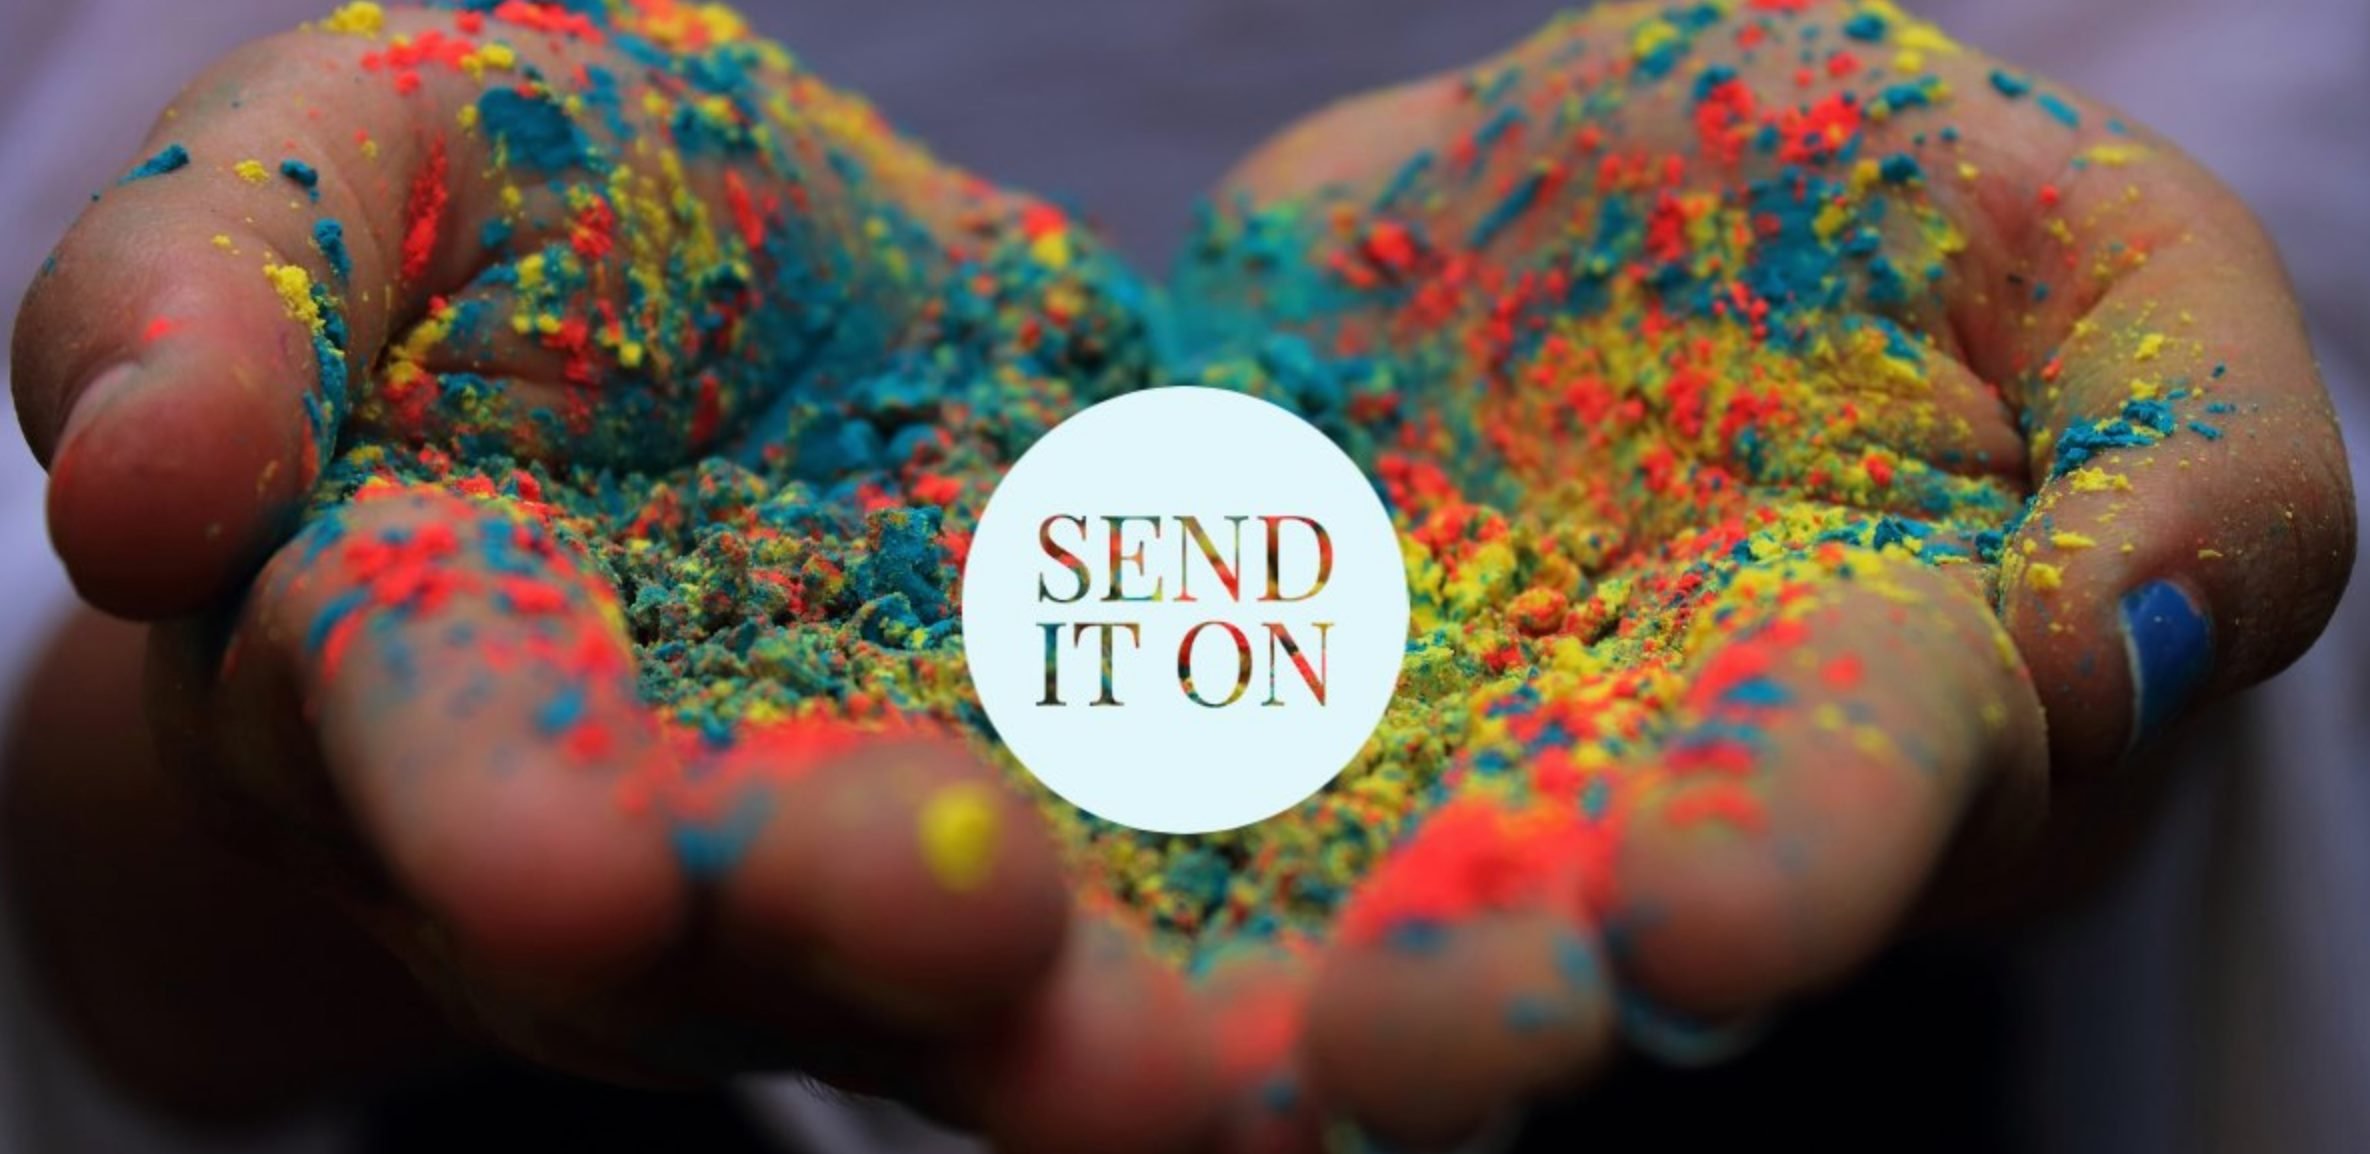
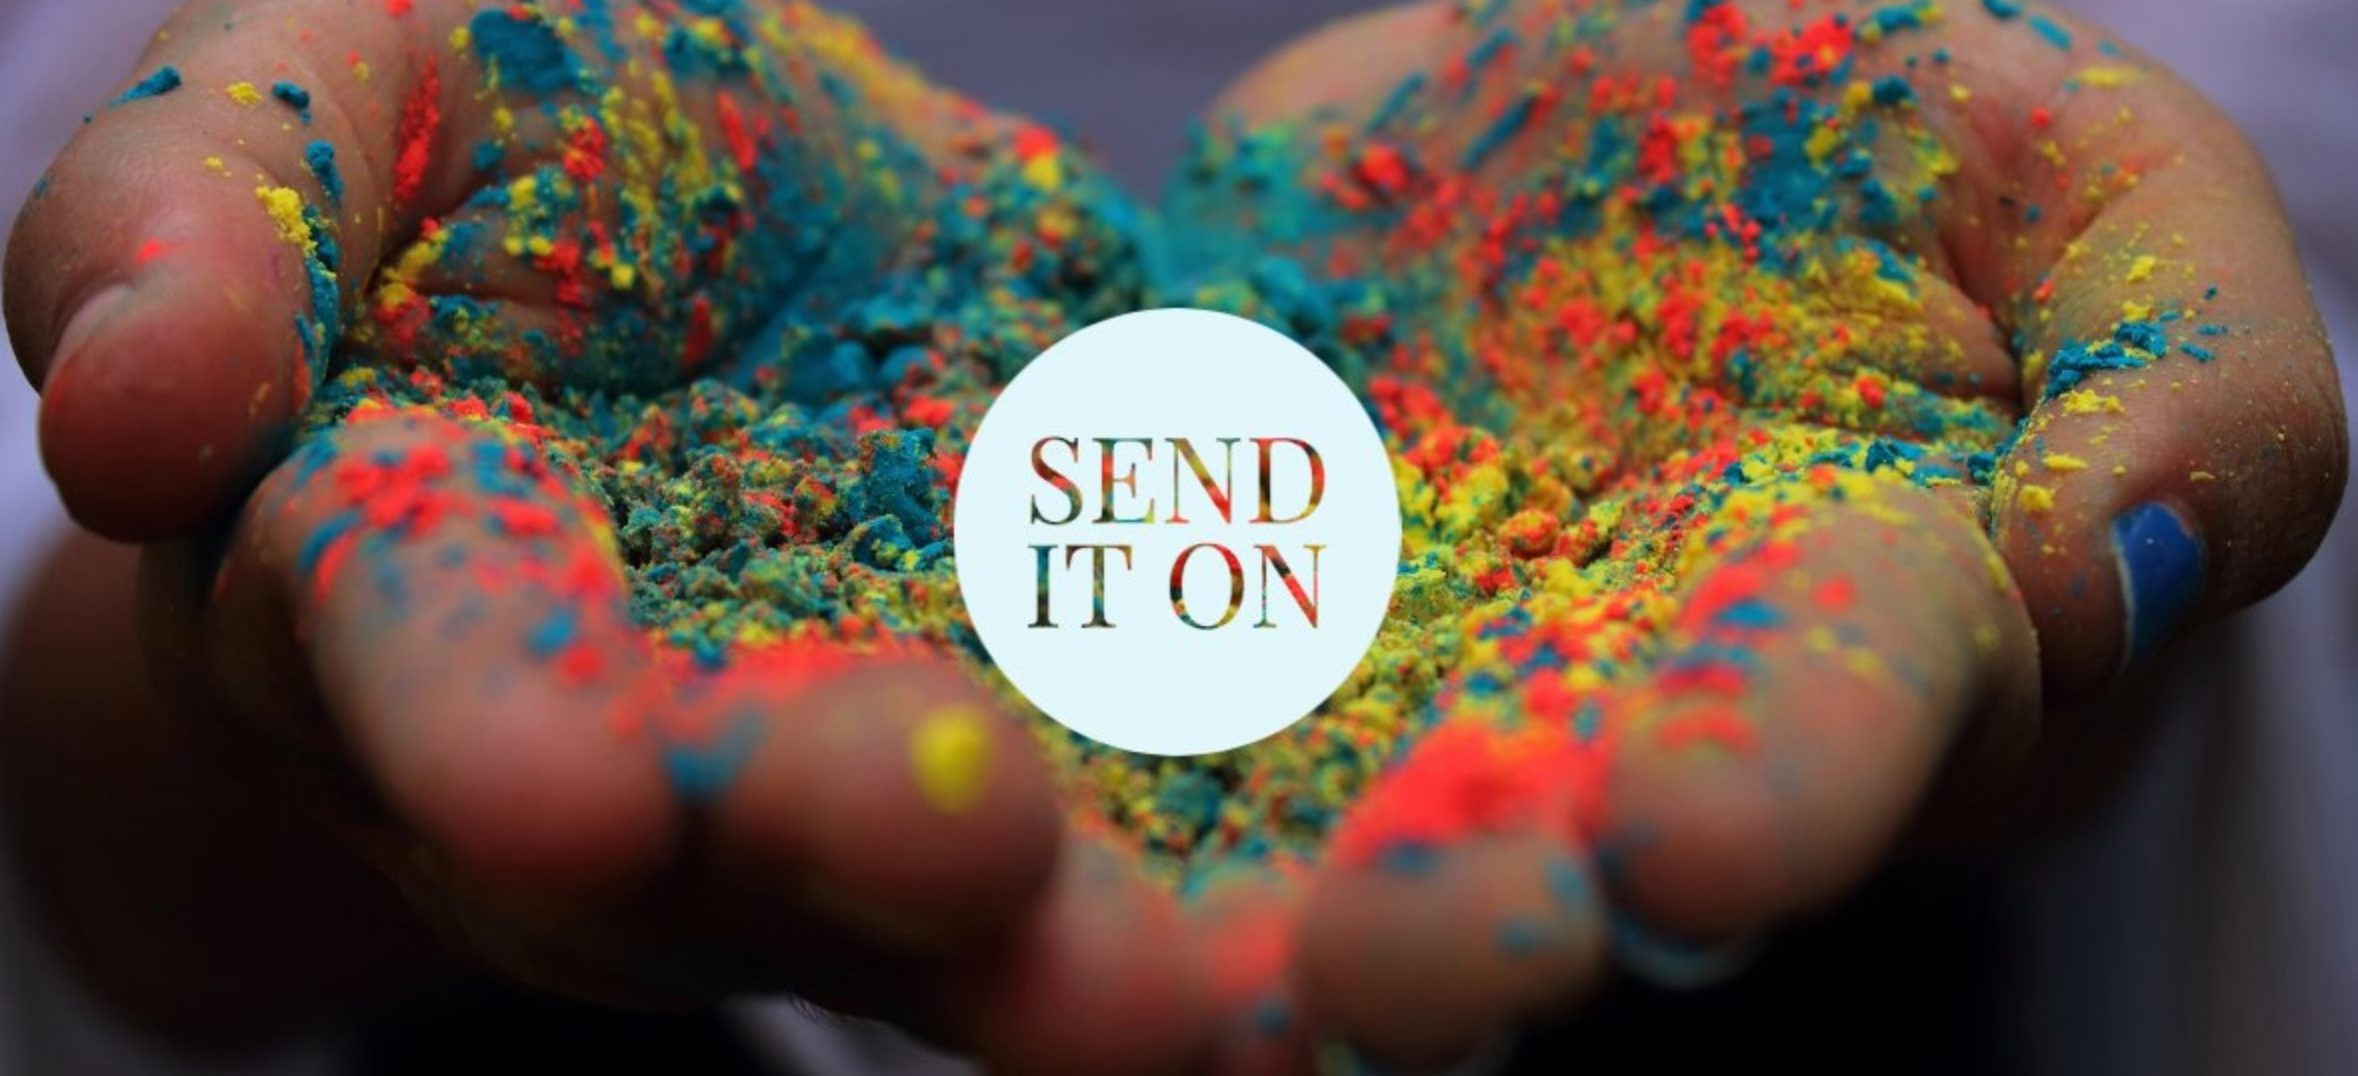
main image more cleaner

diff --git a/css_files/css-main3-header.css b/css_files/css-main3-header.css
@@ -135,7 +135,7 @@ header nav ul li a:hover{
   width: 100%;
   margin-top: 65px;
   height: 500px;
-  background-image: url(../images/reduced-form.png);
+  background-image: url(../images/main_image.jpg);
   background-repeat: no-repeat;
   background-size: cover;
   background-position: center center;
